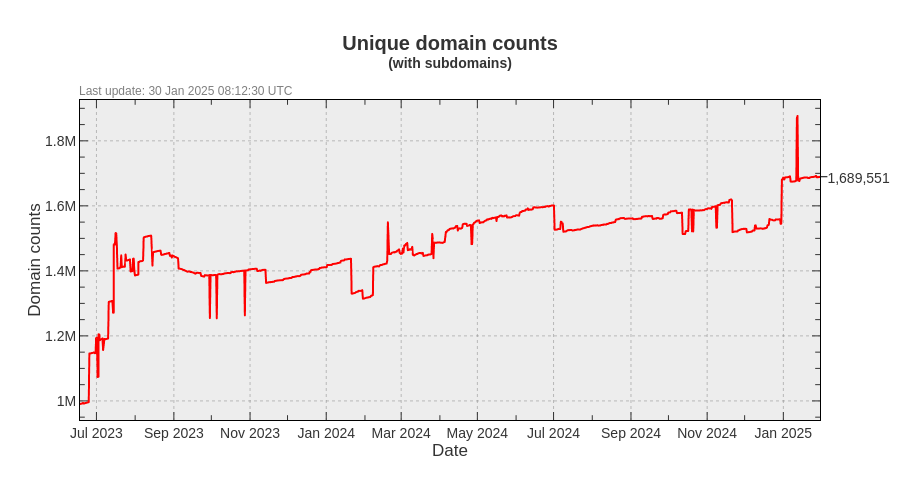
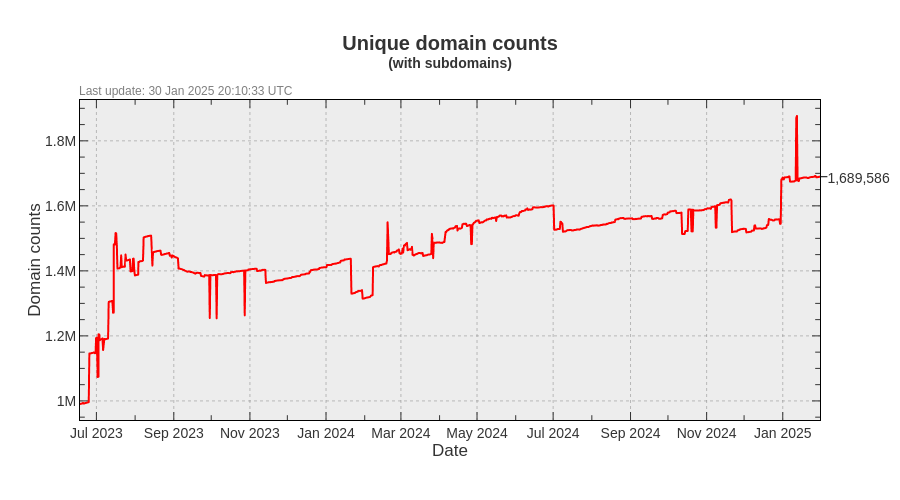
Update pages

diff --git a/README.md b/README.md
@@ -3,22 +3,22 @@ A blacklist file for blocking ads, trackers and malware domains.
 
[1 lines of base64/hex data omitted]
 
-- Unique domains: 1,689,551
-- Without subdomains: 1,032,665
-- Last update: 30 Jan 2025 08:12:30 UTC
-- Version: 2025.01.30.01
+- Unique domains: 1,689,586
+- Without subdomains: 1,032,737
+- Last update: 30 Jan 2025 20:10:33 UTC
+- Version: 2025.01.30.02
 
 
 ### Downloads:
 
 | Format             | Domain count      | Download Link |
 |:------------------ | -----------------:|:-------------:|
-| *Adblock Plus*     | 1,032,665 | [Download](https://dl.cenk.app/bad-hosts/bad-hosts-abp) |
-| *Wildcard domains* | 1,032,665 | [Download](https://dl.cenk.app/bad-hosts/bad-hosts-wildcard) |
-| *dnsmasq*          | 1,032,665 | [Download](https://dl.cenk.app/bad-hosts/bad-hosts-dnsmasq) |
-| *Unbound*          | 1,032,665 | [Download](https://dl.cenk.app/bad-hosts/bad-hosts-unbound) |
-| *hosts*            | 1,689,551 | [Download](https://dl.cenk.app/bad-hosts/hosts) |
-| *hosts (ipv6)*     | 1,689,551 | [Download](https://dl.cenk.app/bad-hosts/hosts-ipv6) |
-| *Plain domains*    | 1,689,551 | [Download](https://dl.cenk.app/bad-hosts/bad-hosts-domains) |
+| *Adblock Plus*     | 1,032,737 | [Download](https://dl.cenk.app/bad-hosts/bad-hosts-abp) |
+| *Wildcard domains* | 1,032,737 | [Download](https://dl.cenk.app/bad-hosts/bad-hosts-wildcard) |
+| *dnsmasq*          | 1,032,737 | [Download](https://dl.cenk.app/bad-hosts/bad-hosts-dnsmasq) |
+| *Unbound*          | 1,032,737 | [Download](https://dl.cenk.app/bad-hosts/bad-hosts-unbound) |
+| *hosts*            | 1,689,586 | [Download](https://dl.cenk.app/bad-hosts/hosts) |
+| *hosts (ipv6)*     | 1,689,586 | [Download](https://dl.cenk.app/bad-hosts/hosts-ipv6) |
+| *Plain domains*    | 1,689,586 | [Download](https://dl.cenk.app/bad-hosts/bad-hosts-domains) |
 
 
